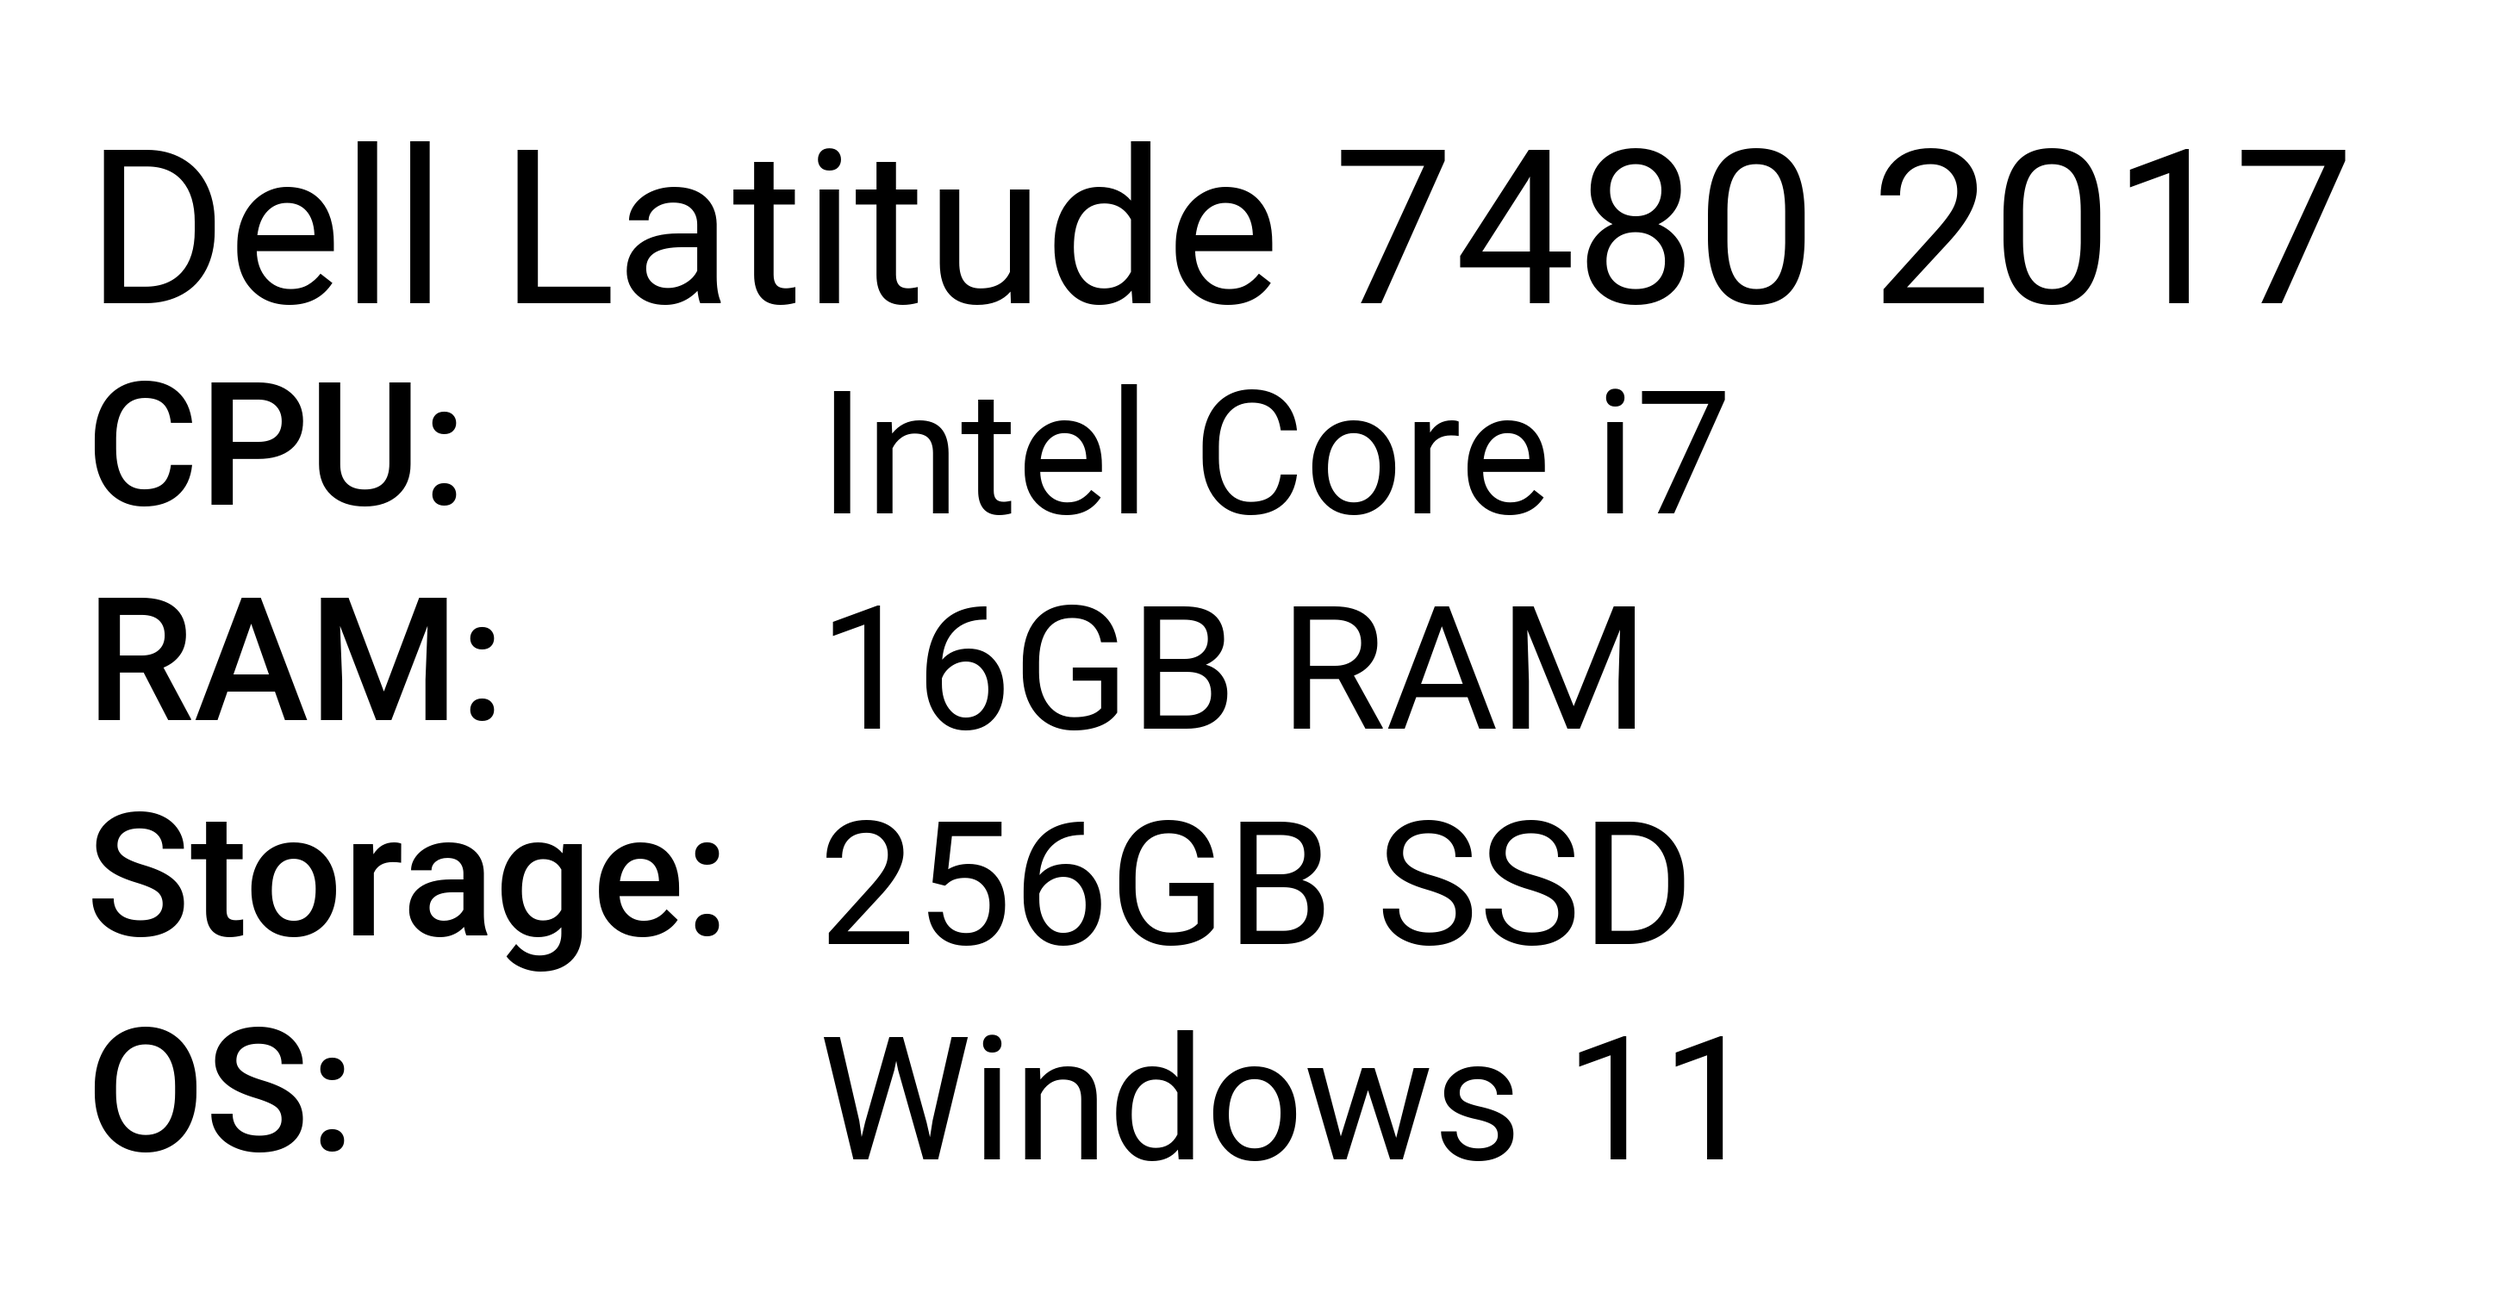
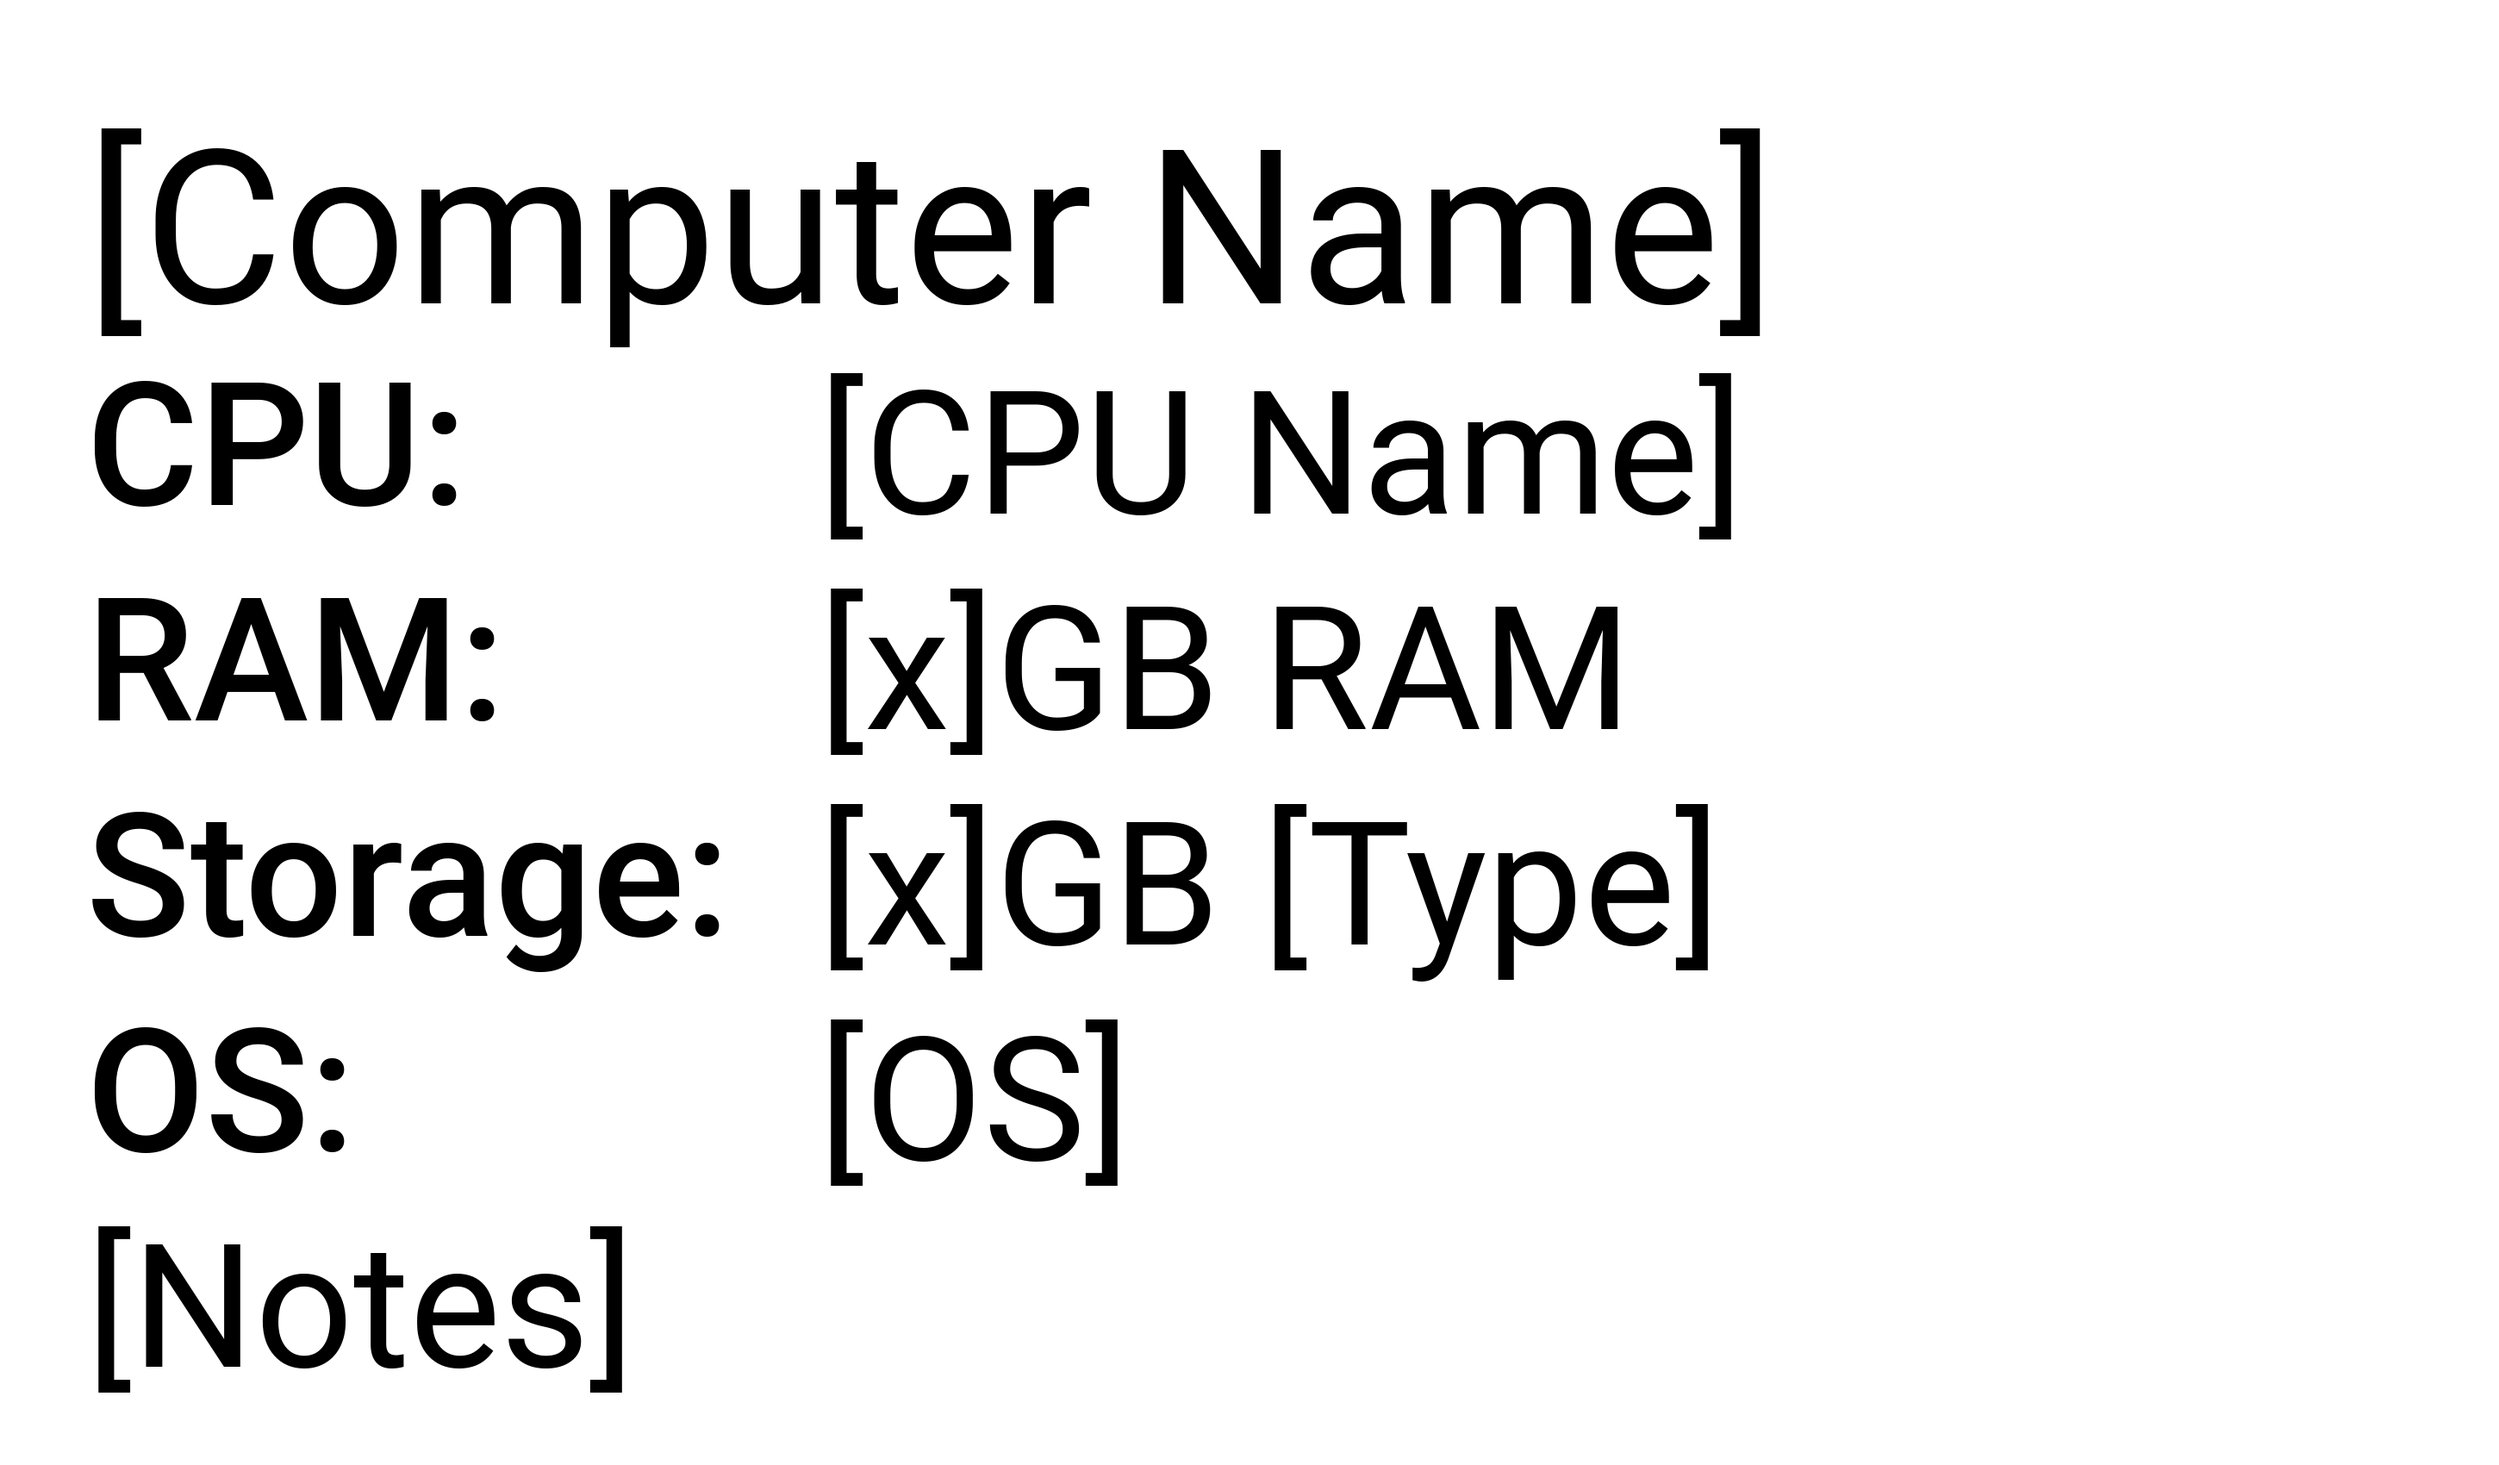
update refurbished thumbnail

Changed region(s): [[0.031, 0.092, 0.9621, 0.9507]]

diff --git a/write_pngs.py b/write_pngs.py
@@ -420,7 +420,13 @@ def kiosk(servicetag: str, date: str, destination: str):
 
 
 def refurbished(
-    name: str, cpu: str, ram: int, storage: int, storage_type: str, os: str, notes: str
+    name: str,
+    cpu: str,
+    ram: int | str,
+    storage: int | str,
+    storage_type: str,
+    os: str,
+    notes: str,
 ):
     img = Image.new("RGB", (2900, 1250), color=(255, 255, 255))
     imgdraw = ImageDraw.Draw(img)
@@ -584,6 +590,6 @@ if __name__ == "__main__":
     # kiosk("BCWNLN3", date, "McHenry")
 
     refurbished(
-        "Dell Latitude 7480 2017", "Intel Core i7", 16, 256, "SSD", "Windows 11", ""
+        "[Computer Name]", "[CPU Name]", "[x]", "[x]", "[Type]", "[OS]", "[Notes]"
     )
     pass
